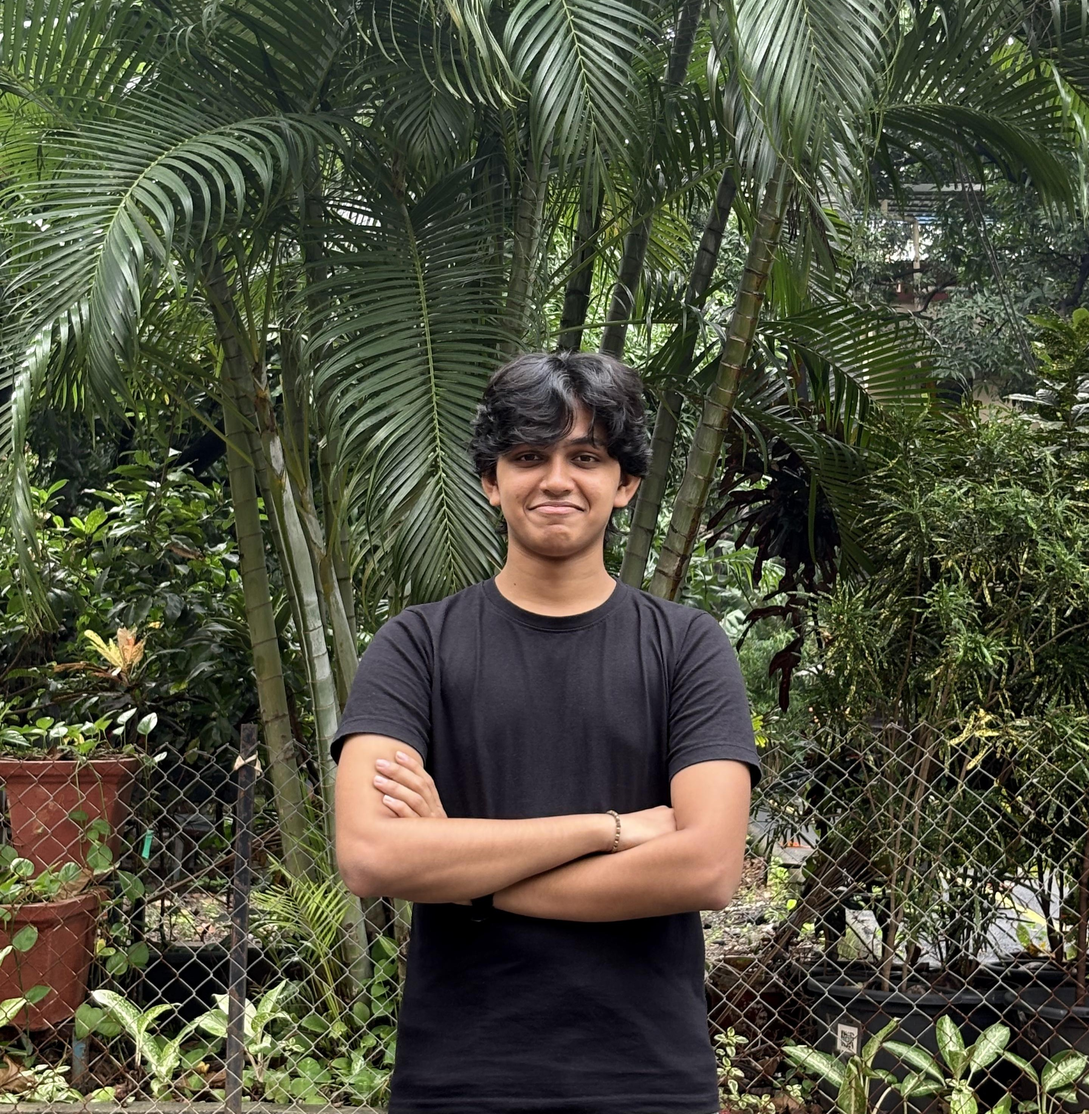
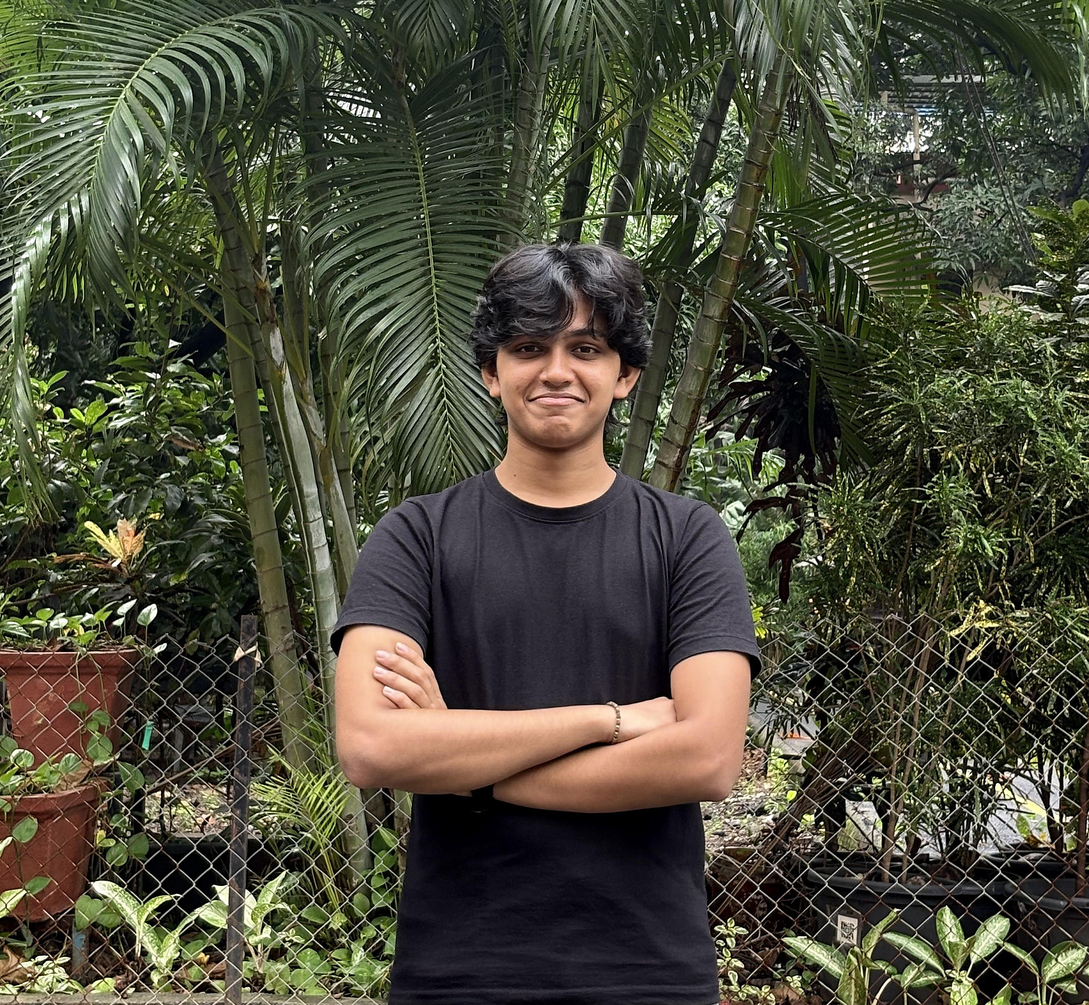
feat: add SIH 2026 problem statements link and update photo asset

diff --git a/src/app/navkriti-26/page.tsx b/src/app/navkriti-26/page.tsx
@@ -251,9 +251,33 @@ const hackathonSections = (styles: Record<string, string>): HackathonSection[] =
     icon: '',
     title: 'Tracks & Problem Statements',
     content: (
-      <div className={styles.sihHighlightCard}>
-        <h4>Important Notice</h4>
-        <p>Problem statements will be released on <strong>24th of August</strong>.</p>
+      <div className={styles.sihHighlightCard} style={{ borderLeftColor: '#e10600', background: 'rgba(225, 6, 0, 0.05)' }}>
+        <h4 style={{ color: '#e10600' }}>Smart India Hackathon 2026 Problem Statements</h4>
+        <p style={{ marginBottom: '1rem' }}>
+          The official problem statements for SIH 2026 have been released on the national portal. You can browse them to start brainstorming ideas for NAVKRITI &apos;26.
+        </p>
+        <a
+          href="https://www.sih.gov.in/sih2026PS"
+          target="_blank"
+          rel="noopener noreferrer"
+          style={{
+            display: 'inline-flex',
+            alignItems: 'center',
+            gap: '0.5rem',
+            padding: '0.65rem 1.25rem',
+            backgroundColor: '#e10600',
+            color: '#fff',
+            textDecoration: 'none',
+            borderRadius: '6px',
+            fontWeight: '600',
+            fontSize: '0.88rem',
+            boxShadow: '0 4px 12px rgba(225, 6, 0, 0.2)',
+            transition: 'all 0.2s ease',
+            cursor: 'pointer'
+          }}
+        >
+          🔍 View SIH 2026 Problem Statements
+        </a>
       </div>
     )
   },
